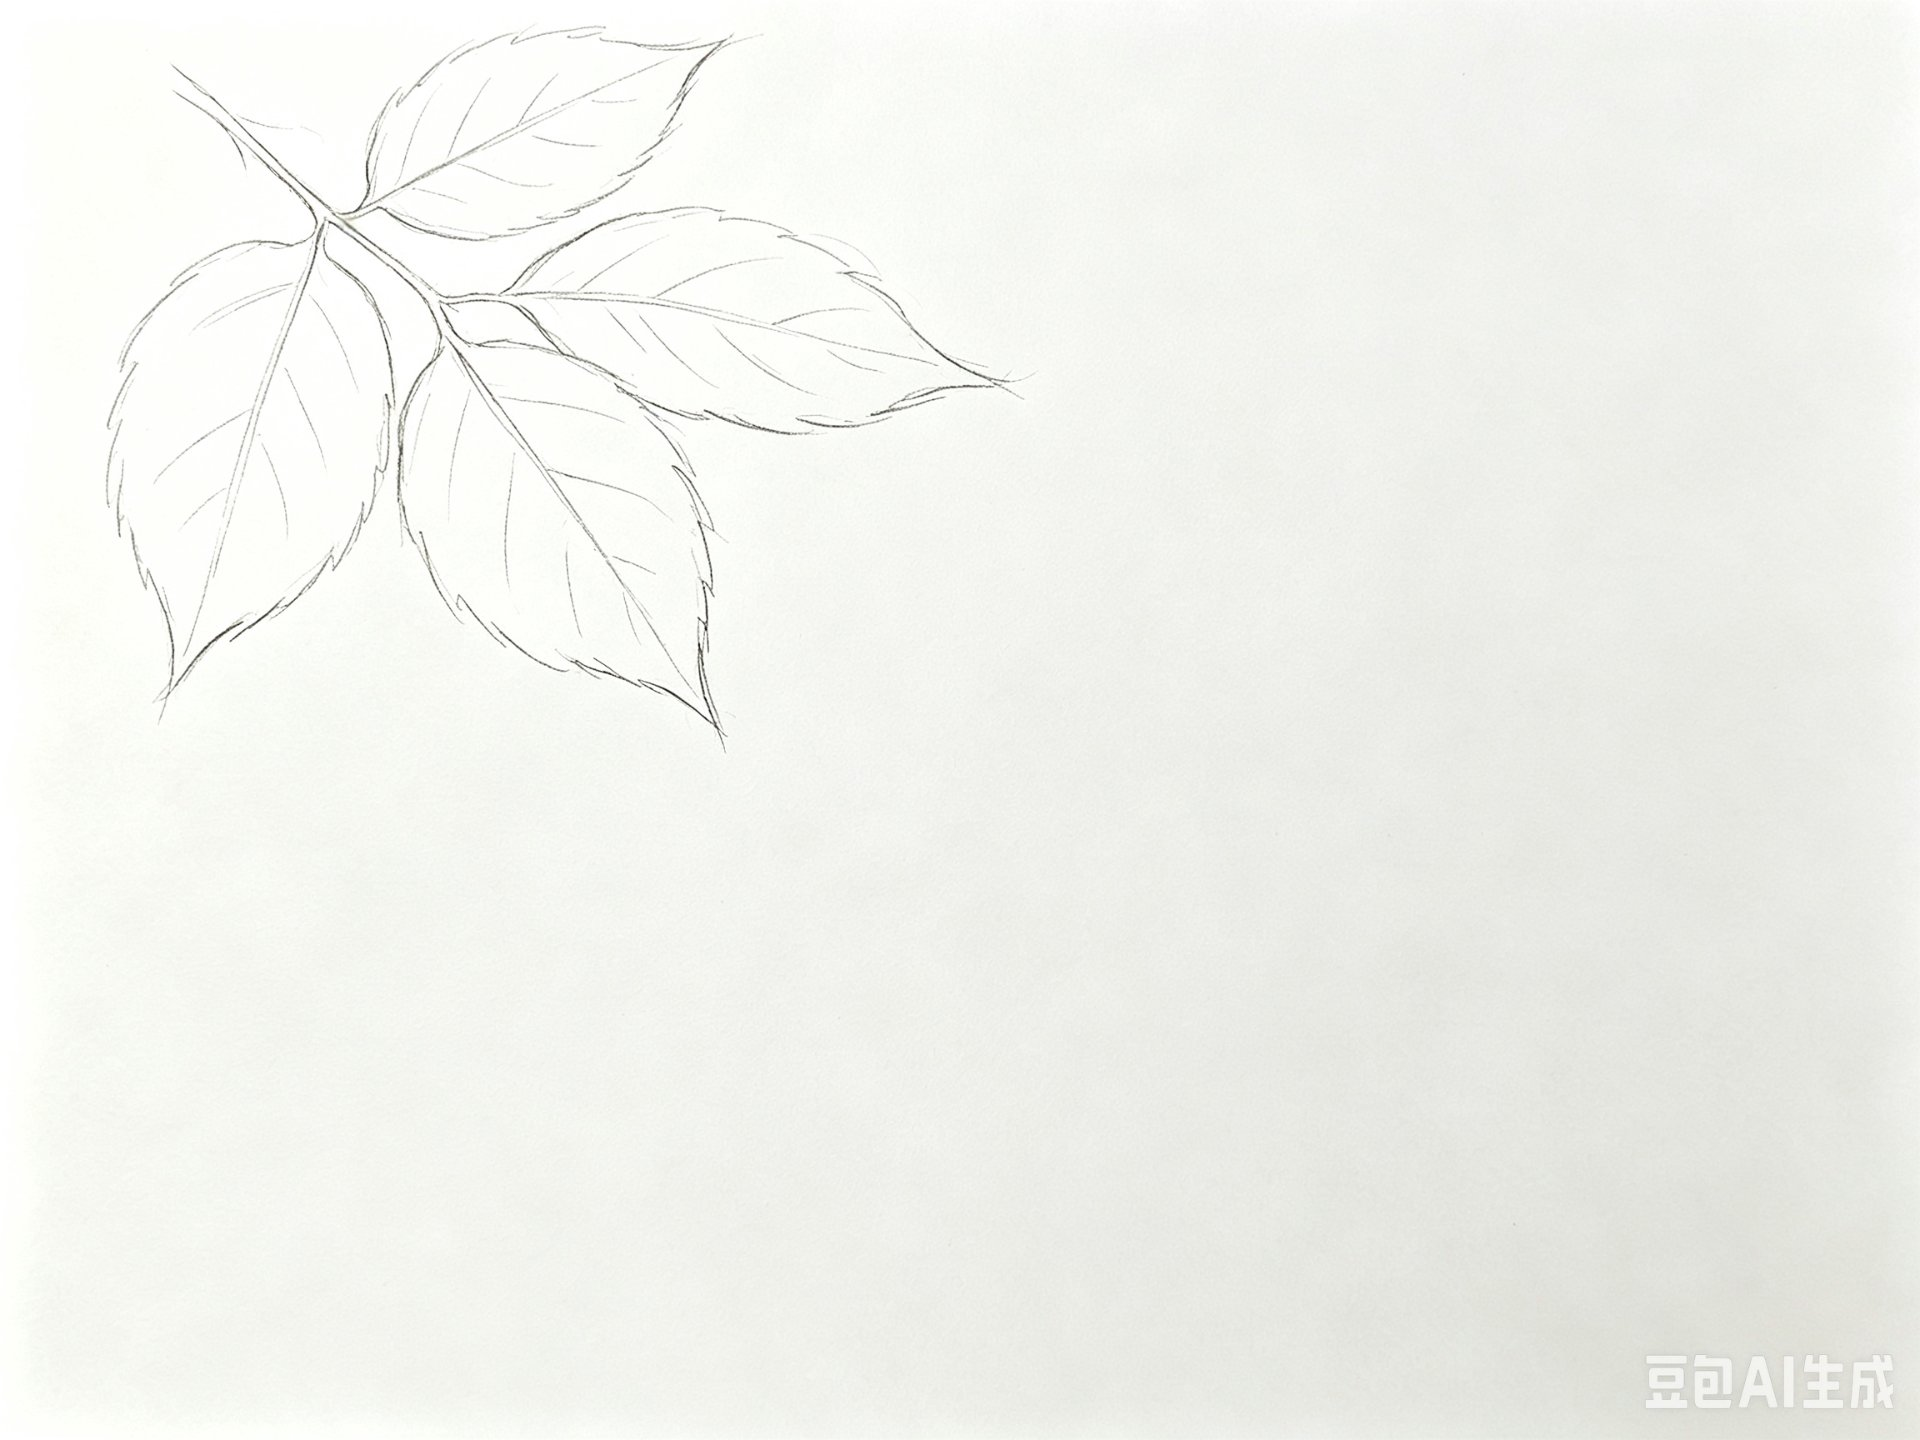
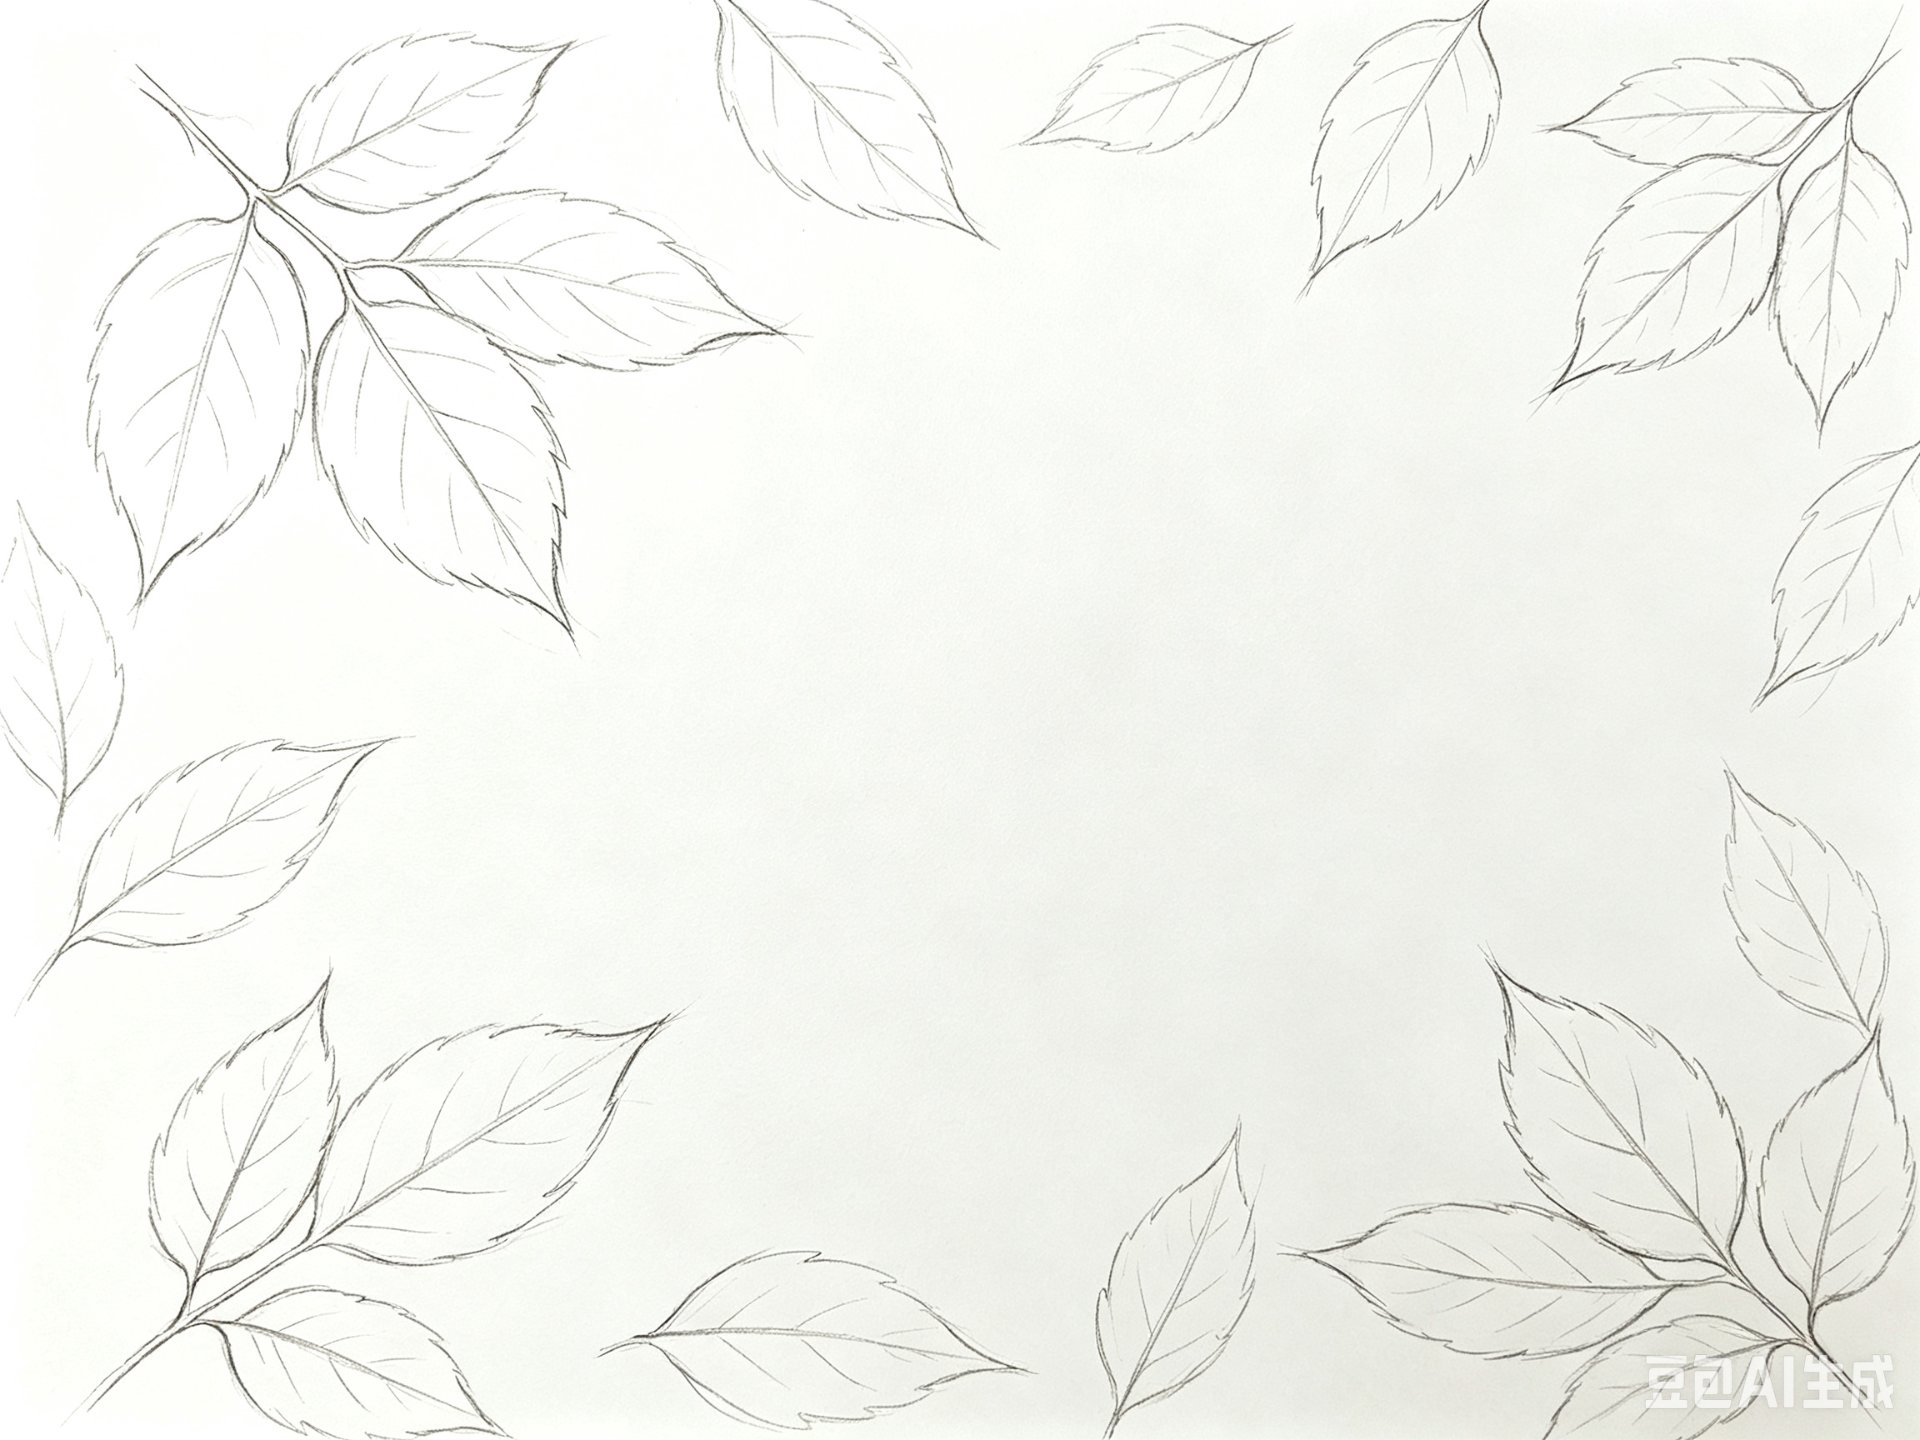
fix(contact): keep pencil texture on hover instead of washing it out
Replace the raw brightness(1.3) hover boost (which lifted the light-gray
strokes toward the near-white paper and killed the sketch texture) with a
higher opacity (0.12->0.3, lines read brighter over the dark card) plus
higher contrast (1.32, strokes stay crisp). Brightness kept at a faint
1.05. Also swap grayscale(0.5) back to grayscale(1) to preserve the
monochrome pencil aesthetic. New leaf/vine backgrounds bundled in.

diff --git a/dist/css/style.css b/dist/css/style.css
@@ -757,11 +757,14 @@ body.cursor-hover .cursor-comet { width: 13px; height: 13px; }
 .contact-card--leaf::before   { background-image: url("/assets/contact/leaf.jpg"); background-position: center 55%; }
 .contact-card--vine::before   { background-image: url("/assets/contact/vine.jpg"); opacity: 0.16; }
 
-/* Hover lights up the pencil sketch: brighter, slightly de-saturated toward
-   its natural tone, and more visible — a quiet "wake the card" micro-moment. */
+/* Hover lights up the pencil sketch without washing out the strokes.
+   The sketch is light-gray lines on near-white paper, so a raw brightness()
+   boost lifts the lines toward the paper and kills the texture. Instead we
+   raise opacity (lines read brighter over the dark card) and contrast (keeps
+   the strokes crisp), with only a faint brightness lift for a "wake" feel. */
 .contact-card:hover::before {
-  filter: grayscale(0.5) brightness(1.3) contrast(1.08);
-  opacity: 0.26;
+  filter: grayscale(1) contrast(1.32) brightness(1.05);
+  opacity: 0.3;
 }
 
 .social-links { display: flex; gap: 16px; flex-wrap: wrap; }

diff --git a/site/public/css/style.css b/site/public/css/style.css
@@ -757,11 +757,14 @@ body.cursor-hover .cursor-comet { width: 13px; height: 13px; }
 .contact-card--leaf::before   { background-image: url("/assets/contact/leaf.jpg"); background-position: center 55%; }
 .contact-card--vine::before   { background-image: url("/assets/contact/vine.jpg"); opacity: 0.16; }
 
-/* Hover lights up the pencil sketch: brighter, slightly de-saturated toward
-   its natural tone, and more visible — a quiet "wake the card" micro-moment. */
+/* Hover lights up the pencil sketch without washing out the strokes.
+   The sketch is light-gray lines on near-white paper, so a raw brightness()
+   boost lifts the lines toward the paper and kills the texture. Instead we
+   raise opacity (lines read brighter over the dark card) and contrast (keeps
+   the strokes crisp), with only a faint brightness lift for a "wake" feel. */
 .contact-card:hover::before {
-  filter: grayscale(0.5) brightness(1.3) contrast(1.08);
-  opacity: 0.26;
+  filter: grayscale(1) contrast(1.32) brightness(1.05);
+  opacity: 0.3;
 }
 
 .social-links { display: flex; gap: 16px; flex-wrap: wrap; }
